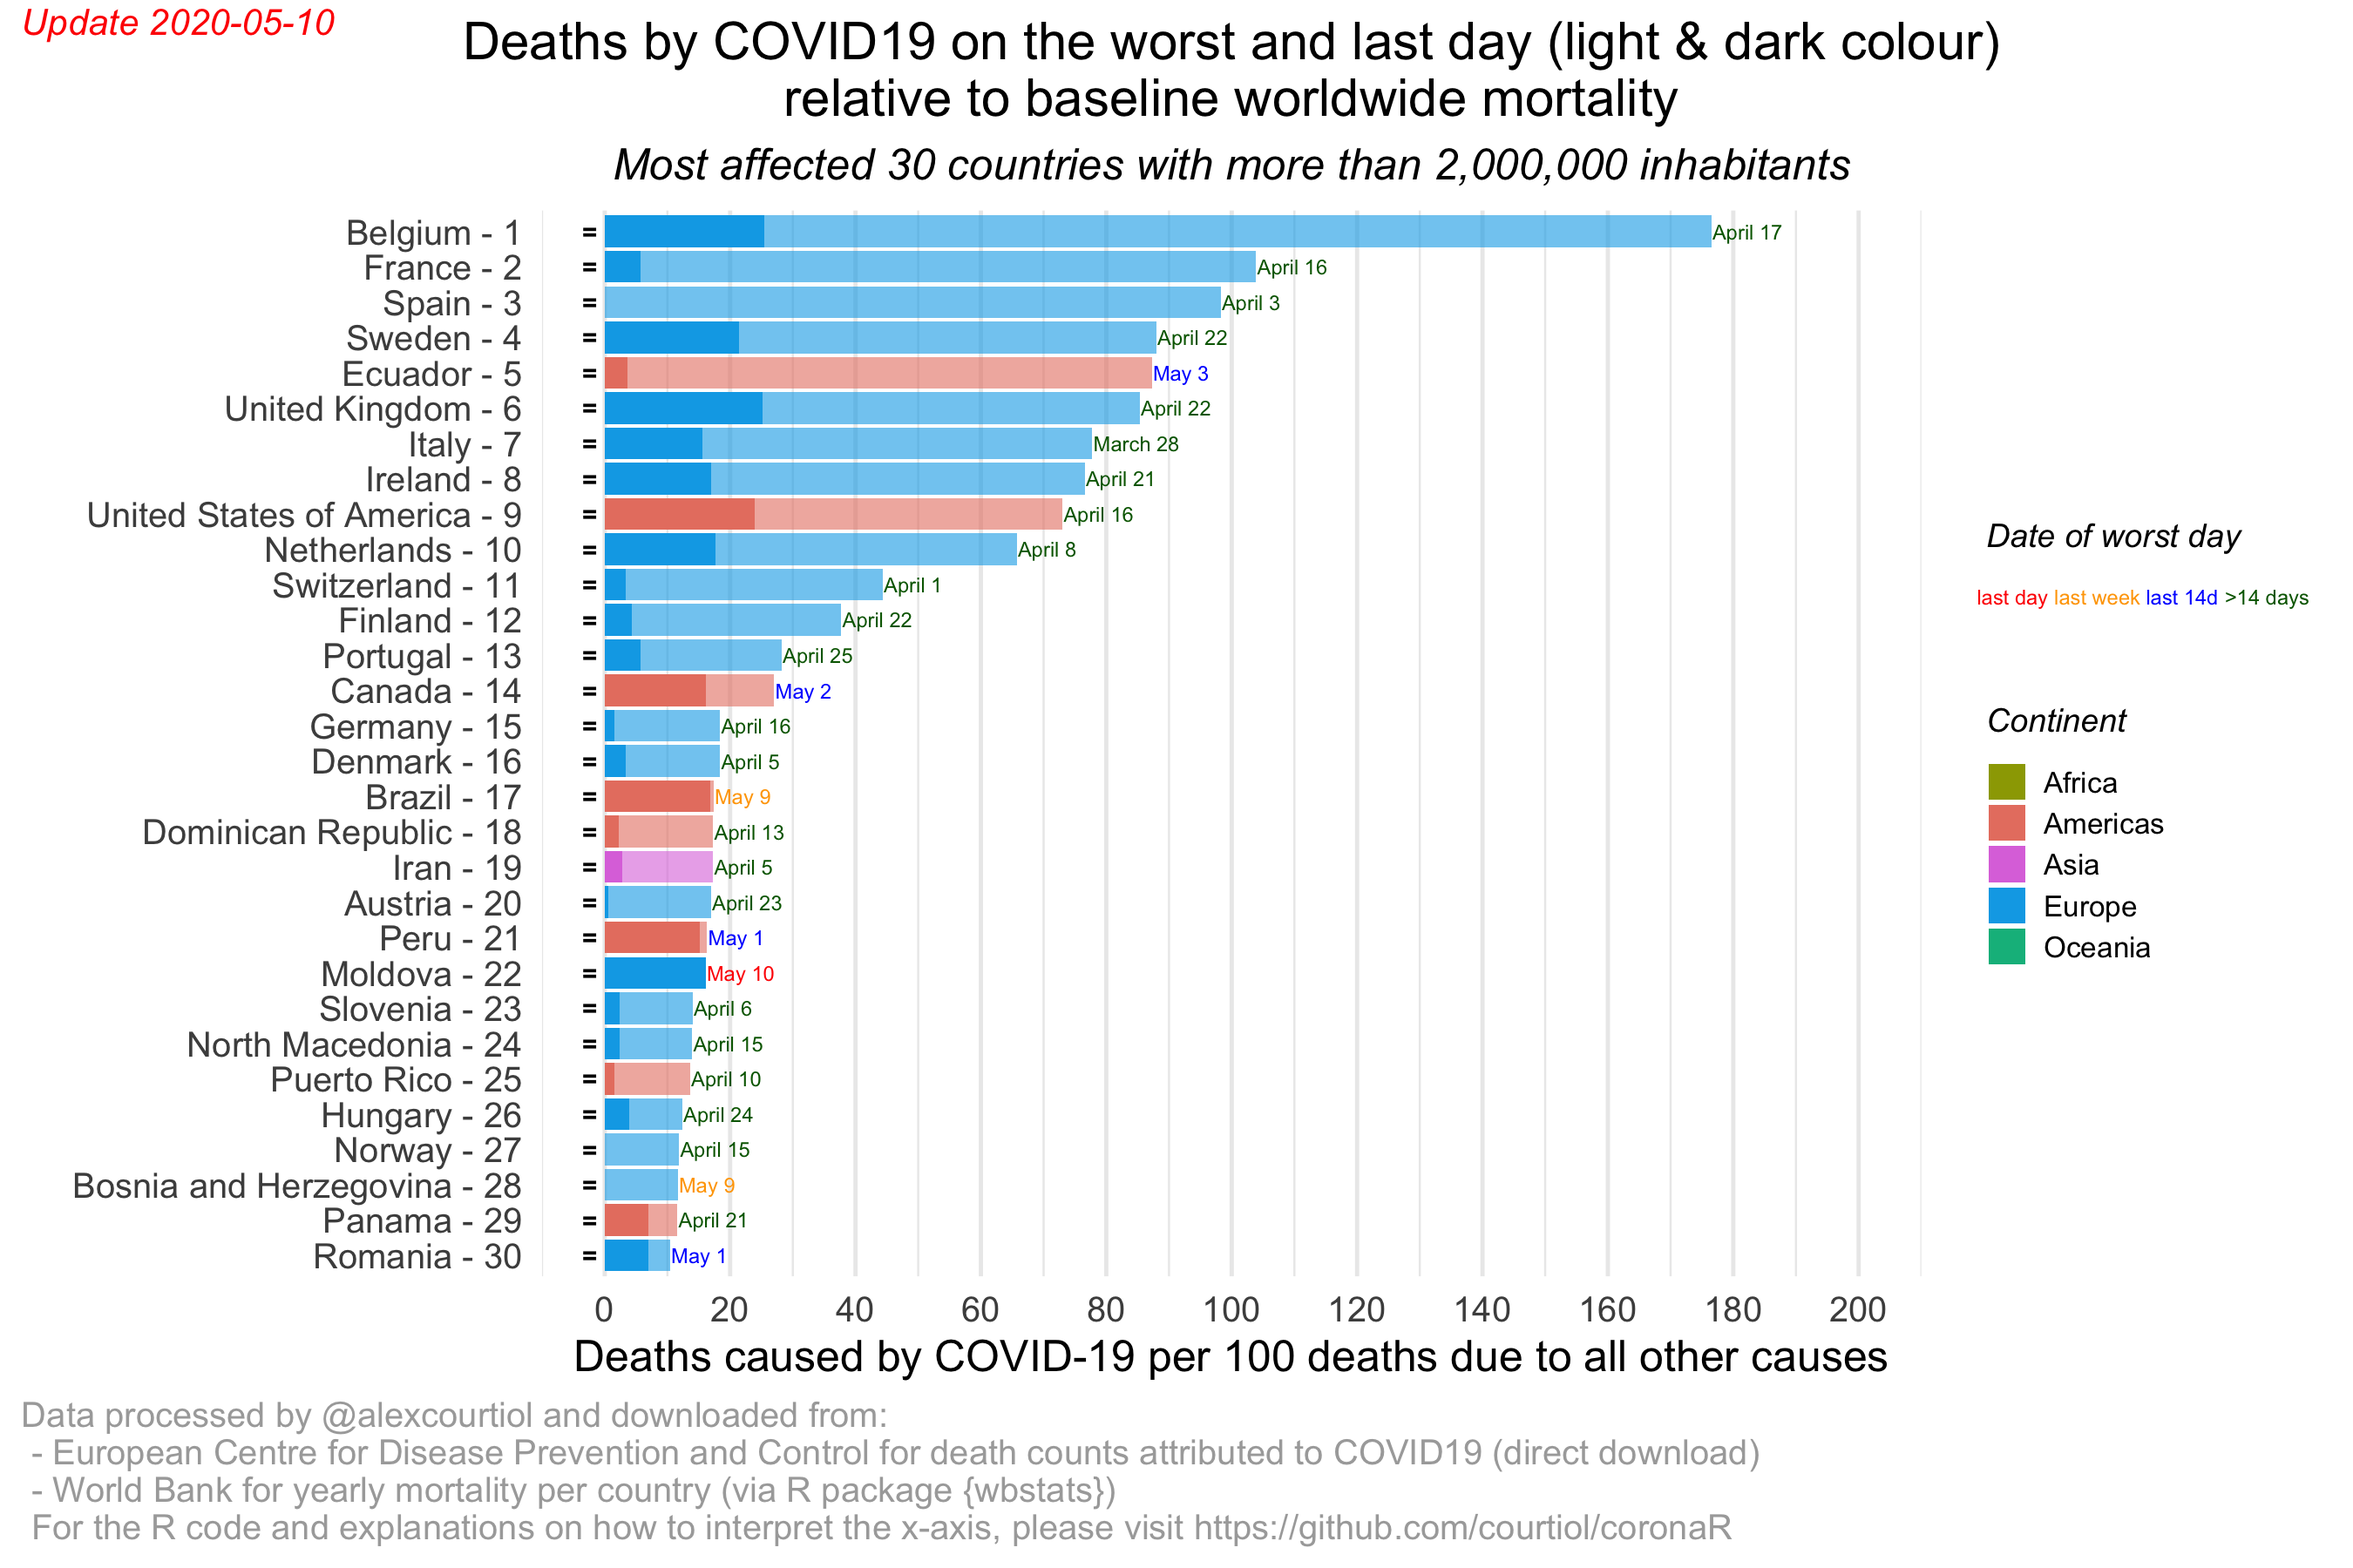
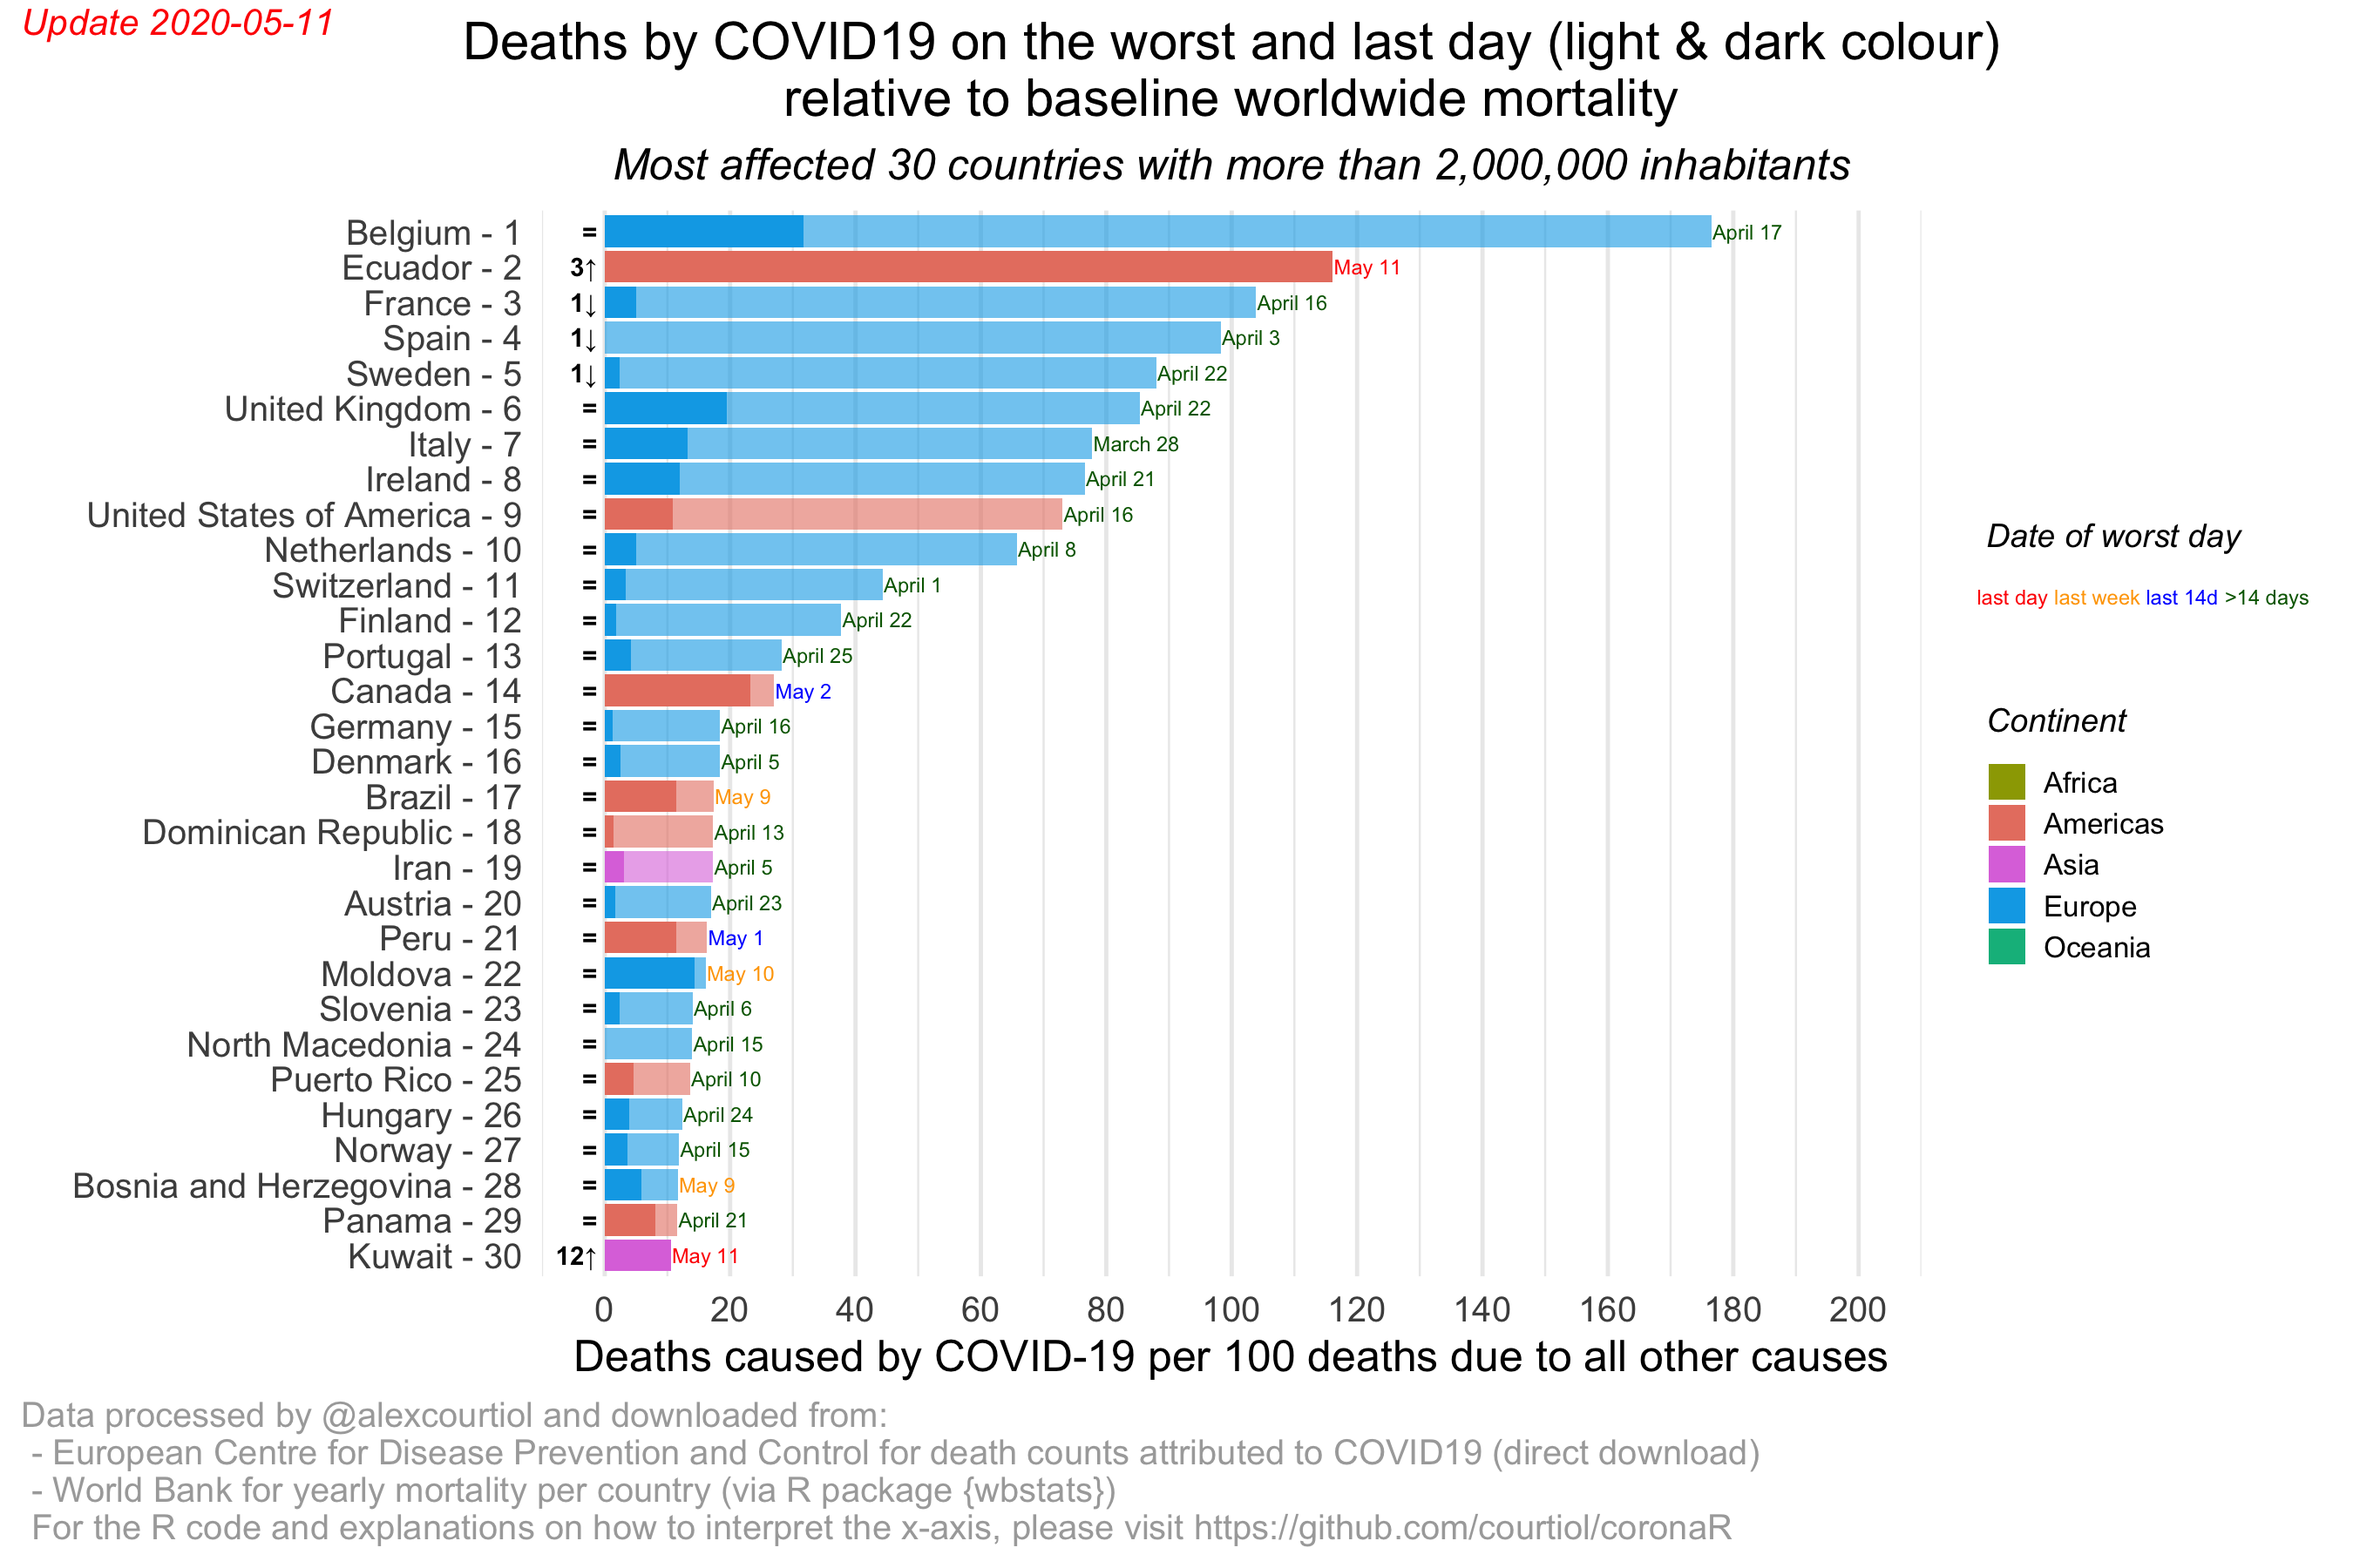
Update 20200511

diff --git a/README.md b/README.md
@@ -95,23 +95,23 @@ library(coronaR)
 today <- Sys.Date() ## note: you can change the date, to rebuild plots retrospectively
 data_COVID <- prepare_data_ECDC(path_save_data = "~/Downloads/COVID19",
                                 date_of_report = today)
-#> The source of the COVID data have been stored in~/Downloads/COVID19/COVID-19-geographic-disbtribution-worldwide-2020-05-10.xlsx!
+#> The source of the COVID data have been stored in~/Downloads/COVID19/COVID-19-geographic-disbtribution-worldwide-2020-05-11.xlsx!
 #> Warning in countrycode::countrycode(.data$iso2c, origin = "iso2c", destination = "continent"): Some values were not matched unambiguously: XK
 data_COVID
-#> # A tibble: 16,663 x 9
+#> # A tibble: 16,872 x 9
 #>    country iso2c continent date_report date_report_last cases deaths_daily
 #>    <chr>   <chr> <fct>     <date>      <date>           <dbl>        <dbl>
-#>  1 Afghan… AF    Asia      2020-05-10  2020-05-10         255            6
-#>  2 Afghan… AF    Asia      2020-05-09  2020-05-10         215            3
-#>  3 Afghan… AF    Asia      2020-05-08  2020-05-10         171            2
-#>  4 Afghan… AF    Asia      2020-05-07  2020-05-10         168            9
-#>  5 Afghan… AF    Asia      2020-05-06  2020-05-10         330            5
-#>  6 Afghan… AF    Asia      2020-05-05  2020-05-10         190            5
-#>  7 Afghan… AF    Asia      2020-05-04  2020-05-10         235           13
-#>  8 Afghan… AF    Asia      2020-05-03  2020-05-10         134            4
-#>  9 Afghan… AF    Asia      2020-05-02  2020-05-10         164            4
-#> 10 Afghan… AF    Asia      2020-05-01  2020-05-10         222            4
-#> # … with 16,653 more rows, and 2 more variables: deaths_cumul <dbl>,
+#>  1 Afghan… AF    Asia      2020-05-11  2020-05-11         369            5
+#>  2 Afghan… AF    Asia      2020-05-10  2020-05-11         255            6
+#>  3 Afghan… AF    Asia      2020-05-09  2020-05-11         215            3
+#>  4 Afghan… AF    Asia      2020-05-08  2020-05-11         171            2
+#>  5 Afghan… AF    Asia      2020-05-07  2020-05-11         168            9
+#>  6 Afghan… AF    Asia      2020-05-06  2020-05-11         330            5
+#>  7 Afghan… AF    Asia      2020-05-05  2020-05-11         190            5
+#>  8 Afghan… AF    Asia      2020-05-04  2020-05-11         235           13
+#>  9 Afghan… AF    Asia      2020-05-03  2020-05-11         134            4
+#> 10 Afghan… AF    Asia      2020-05-02  2020-05-11         164            4
+#> # … with 16,862 more rows, and 2 more variables: deaths_cumul <dbl>,
 #> #   date_first_10_cumul_deaths <date>
   
 ## NOTE: the following Warning is expected:
@@ -250,32 +250,32 @@ full_data <- merge_datasets(data_ECDC = data_COVID,
 
 ``` r
 str(full_data)
-#> tibble [12,567 × 24] (S3: tbl_df/tbl/data.frame)
-#>  $ country                         : chr [1:12567] "Afghanistan" "Afghanistan" "Afghanistan" "Afghanistan" ...
+#> tibble [12,710 × 24] (S3: tbl_df/tbl/data.frame)
+#>  $ country                         : chr [1:12710] "Afghanistan" "Afghanistan" "Afghanistan" "Afghanistan" ...
 #>  $ continent                       : Factor w/ 5 levels "Africa","Americas",..: 3 3 3 3 3 3 3 3 3 3 ...
-#>  $ date_report                     : Date[1:12567], format: "2020-05-10" "2020-05-09" ...
-#>  $ date_report_last                : Date[1:12567], format: "2020-05-10" "2020-05-10" ...
-#>  $ cases                           : num [1:12567] 255 215 171 168 330 190 235 134 164 222 ...
-#>  $ deaths_daily                    : num [1:12567] 6 3 2 9 5 5 13 4 4 4 ...
-#>  $ deaths_cumul                    : num [1:12567] 115 109 106 104 95 90 85 72 68 64 ...
-#>  $ date_first_10_cumul_deaths      : Date[1:12567], format: "2020-04-08" "2020-04-08" ...
-#>  $ year_mortality                  : num [1:12567] 2018 2018 2018 2018 2018 ...
-#>  $ total_death_year                : num [1:12567] 238758 238758 238758 238758 238758 ...
-#>  $ total_death_day                 : num [1:12567] 654 654 654 654 654 ...
-#>  $ total_death_year_world          : num [1:12567] 56650926 56650926 56650926 56650926 56650926 ...
-#>  $ total_death_day_world           : num [1:12567] 155208 155208 155208 155208 155208 ...
-#>  $ country_pop                     : num [1:12567] 37172386 37172386 37172386 37172386 37172386 ...
-#>  $ world_pop                       : num [1:12567] 7.51e+09 7.51e+09 7.51e+09 7.51e+09 7.51e+09 ...
-#>  $ days_since_first_10_cumul_deaths: 'difftime' num [1:12567] 32 31 30 29 ...
+#>  $ date_report                     : Date[1:12710], format: "2020-05-11" "2020-05-10" ...
+#>  $ date_report_last                : Date[1:12710], format: "2020-05-11" "2020-05-11" ...
+#>  $ cases                           : num [1:12710] 369 255 215 171 168 330 190 235 134 164 ...
+#>  $ deaths_daily                    : num [1:12710] 5 6 3 2 9 5 5 13 4 4 ...
+#>  $ deaths_cumul                    : num [1:12710] 120 115 109 106 104 95 90 85 72 68 ...
+#>  $ date_first_10_cumul_deaths      : Date[1:12710], format: "2020-04-08" "2020-04-08" ...
+#>  $ year_mortality                  : num [1:12710] 2018 2018 2018 2018 2018 ...
+#>  $ total_death_year                : num [1:12710] 238758 238758 238758 238758 238758 ...
+#>  $ total_death_day                 : num [1:12710] 654 654 654 654 654 ...
+#>  $ total_death_year_world          : num [1:12710] 56650926 56650926 56650926 56650926 56650926 ...
+#>  $ total_death_day_world           : num [1:12710] 155208 155208 155208 155208 155208 ...
+#>  $ country_pop                     : num [1:12710] 37172386 37172386 37172386 37172386 37172386 ...
+#>  $ world_pop                       : num [1:12710] 7.51e+09 7.51e+09 7.51e+09 7.51e+09 7.51e+09 ...
+#>  $ days_since_first_10_cumul_deaths: 'difftime' num [1:12710] 33 32 31 30 ...
 #>   ..- attr(*, "units")= chr "days"
-#>  $ extra_mortality_daily_country   : num [1:12567] 0.917 0.459 0.306 1.376 0.764 ...
-#>  $ extra_mortality_cumul_country   : num [1:12567] 0.491 0.478 0.478 0.484 0.453 ...
-#>  $ country_weight                  : num [1:12567] 0.00495 0.00495 0.00495 0.00495 0.00495 ...
-#>  $ extra_mortality_daily_world     : num [1:12567] 0.781 0.391 0.26 1.172 0.651 ...
-#>  $ extra_mortality_cumul_world     : num [1:12567] 0.418 0.407 0.407 0.412 0.386 ...
-#>  $ extra_mortality                 : num [1:12567] 1.99 1.99 1.99 1.99 1.99 ...
-#>  $ date                            : Date[1:12567], format: "2020-05-04" "2020-05-04" ...
-#>  $ days_since_date                 : 'difftime' num [1:12567] 6 6 6 6 ...
+#>  $ extra_mortality_daily_country   : num [1:12710] 0.764 0.917 0.459 0.306 1.376 ...
+#>  $ extra_mortality_cumul_country   : num [1:12710] 0.499 0.491 0.478 0.478 0.484 ...
+#>  $ country_weight                  : num [1:12710] 0.00495 0.00495 0.00495 0.00495 0.00495 ...
+#>  $ extra_mortality_daily_world     : num [1:12710] 0.651 0.781 0.391 0.26 1.172 ...
+#>  $ extra_mortality_cumul_world     : num [1:12710] 0.425 0.418 0.407 0.407 0.412 ...
+#>  $ extra_mortality                 : num [1:12710] 1.99 1.99 1.99 1.99 1.99 ...
+#>  $ date                            : Date[1:12710], format: "2020-05-04" "2020-05-04" ...
+#>  $ days_since_date                 : 'difftime' num [1:12710] 7 7 7 7 ...
 #>   ..- attr(*, "units")= chr "days"
 ```
 
@@ -355,7 +355,7 @@ devtools::session_info()
 #>  collate  en_US.UTF-8                 
 #>  ctype    en_US.UTF-8                 
 #>  tz       Europe/Berlin               
-#>  date     2020-05-10                  
+#>  date     2020-05-11                  
 #> 
 #> ─ Packages ───────────────────────────────────────────────────────────────────
 #>  package     * version    date       lib source        
@@ -366,7 +366,7 @@ devtools::session_info()
 #>  cli           2.0.2      2020-02-28 [1] CRAN (R 4.0.0)
 #>  colorspace    1.4-1      2019-03-18 [1] CRAN (R 4.0.0)
 #>  coronaR     * 0.0.0.9000 2020-05-06 [1] local         
-#>  countrycode   1.1.2      2020-04-22 [1] CRAN (R 4.0.0)
+#>  countrycode   1.1.3      2020-05-07 [1] CRAN (R 4.0.0)
 #>  crayon        1.3.4      2017-09-16 [1] CRAN (R 4.0.0)
 #>  curl          4.3        2019-12-02 [1] CRAN (R 4.0.0)
 #>  desc          1.2.0      2018-05-01 [1] CRAN (R 4.0.0)
@@ -392,8 +392,8 @@ devtools::session_info()
 #>  magrittr      1.5        2014-11-22 [1] CRAN (R 4.0.0)
 #>  memoise       1.1.0      2017-04-21 [1] CRAN (R 4.0.0)
 #>  munsell       0.5.0      2018-06-12 [1] CRAN (R 4.0.0)
-#>  pillar        1.4.3      2019-12-20 [1] CRAN (R 4.0.0)
-#>  pkgbuild      1.0.7      2020-04-25 [1] CRAN (R 4.0.0)
+#>  pillar        1.4.4      2020-05-05 [1] CRAN (R 4.0.0)
+#>  pkgbuild      1.0.8      2020-05-07 [1] CRAN (R 4.0.0)
 #>  pkgconfig     2.0.3      2019-09-22 [1] CRAN (R 4.0.0)
 #>  pkgload       1.0.2      2018-10-29 [1] CRAN (R 4.0.0)
 #>  prettyunits   1.1.1      2020-01-24 [1] CRAN (R 4.0.0)
@@ -413,7 +413,7 @@ devtools::session_info()
 #>  stringr       1.4.0      2019-02-10 [1] CRAN (R 4.0.0)
 #>  testthat      2.3.2      2020-03-02 [1] CRAN (R 4.0.0)
 #>  tibble        3.0.1      2020-04-20 [1] CRAN (R 4.0.0)
-#>  tidyr         1.0.2      2020-01-24 [1] CRAN (R 4.0.0)
+#>  tidyr         1.0.3      2020-05-07 [1] CRAN (R 4.0.0)
 #>  tidyselect    1.0.0      2020-01-27 [1] CRAN (R 4.0.0)
 #>  usethis       1.6.1      2020-04-29 [1] CRAN (R 4.0.0)
 #>  utf8          1.1.4      2018-05-24 [1] CRAN (R 4.0.0)
